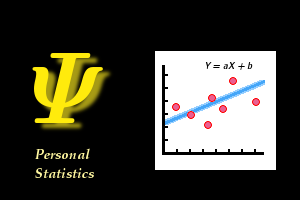
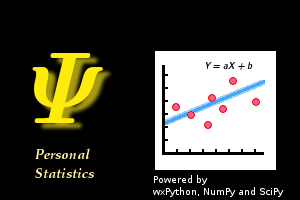
Added Settings menu and dialog, still in "main" class.

Changed region(s): [[0.51, 0.87, 0.96, 0.99]]

diff --git a/main.py b/main.py
@@ -1,5 +1,6 @@
 #!/usr/bin/python
 # -*- coding: utf-8 -*-
+
 import wx
 from wx import xrc
 from wx import grid
@@ -15,9 +16,8 @@ class PSI(wx.App):
         self.props = Properties.XMLProperties()
         self.props.Open('properties.xml')
         self.res = xrc.XmlResource(u'mainGrid.xrc')
-        self.frame = self.res.LoadFrame(None, u'mainFrame')
-        self.AboutDialog = self.res.LoadDialog(self.frame, u'AboutDialog')
-        self.mainGrid = xrc.XRCCTRL(self.frame, u'mainGrid')
+        self.frame = self.res.LoadFrame(None, u'MainFrame')
+        self.mainGrid = xrc.XRCCTRL(self.frame, u'MainGrid')
         self.mainGrid.CreateGrid(1000, 26)
         self.mainGrid.EnableDragRowSize(False)
         self.mainGrid.EnableDragColSize(False)
@@ -27,11 +27,14 @@ class PSI(wx.App):
                         id = xrc.XRCID(u'Quit'))
         self.frame.Bind(wx.EVT_MENU, self.OpenFile,
                         id = xrc.XRCID(u'Open'))
-        self.frame.Bind(wx.EVT_MENU, self.DoLR,
+        self.frame.Bind(wx.EVT_MENU, self.StyleDialog,
+                                id = xrc.XRCID(u'DrawingStyle'))
+        self.frame.Bind(wx.EVT_MENU, self.LR,
                                 id = xrc.XRCID(u'LR'))
         self.frame.Bind(wx.EVT_MENU, self.Descriptive,
                                 id = xrc.XRCID(u'DescStats'))
-        self.frame.Bind(wx.EVT_MENU, lambda x: self.AboutDialog.Show(),
+        aboutDialog = self.res.LoadDialog(self.frame, u'AboutDialog')
+        self.frame.Bind(wx.EVT_MENU, lambda x: aboutDialog.ShowModal(),
                                 id = xrc.XRCID(u'About'))
         self.frame.SetDimensions(int(self.props.GetProperty(u'main-window',
                                                             u'x-position')),
@@ -52,6 +55,58 @@ class PSI(wx.App):
         print 'Printing selected cells:'
         for i in self.mainGrid.GetSelectedCellsList('N'):
             print i
+
+    def StyleDialog(self, e):
+        styleDialog = self.res.LoadDialog(self.frame, u'StyleDialog')
+        radius = self.props.GetProperty('style', 'dots-radius')
+        xrc.XRCCTRL(styleDialog, u'DotsRadius').SetValue(int(radius))
+        self.dots_r = self.props.GetProperty('style', 'dots-color-r')
+        self.dots_g = self.props.GetProperty('style', 'dots-color-g')
+        self.dots_b = self.props.GetProperty('style', 'dots-color-b')
+        color = wx.Color(int(self.dots_r), int(self.dots_g), int(self.dots_b))
+        DotsColorButton = xrc.XRCCTRL(styleDialog, u'DotsColor')
+        DotsColorButton.SetForegroundColour(color)
+        styleDialog.Bind(wx.EVT_BUTTON, self.SetColors,
+            id = xrc.XRCID(u'DotsColor'))
+        width = self.props.GetProperty('style', 'line-width')
+        xrc.XRCCTRL(styleDialog, u'LineWidth').SetValue(int(width))
+        self.line_r = self.props.GetProperty('style', 'line-color-r')
+        self.line_g = self.props.GetProperty('style', 'line-color-g')
+        self.line_b = self.props.GetProperty('style', 'line-color-b')
+        color = wx.Color(int(self.line_r), int(self.line_g), int(self.line_b))
+        LineColorButton = xrc.XRCCTRL(styleDialog, u'LineColor')
+        LineColorButton.SetForegroundColour(color)
+        styleDialog.Bind(wx.EVT_BUTTON, self.SetColors,
+            id = xrc.XRCID(u'LineColor'))
+        if styleDialog.ShowModal() == wx.ID_OK:
+            self.props.SetProperty('style', 'dots-color-r', self.dots_r)
+            self.props.SetProperty('style', 'dots-color-g', self.dots_g)
+            self.props.SetProperty('style', 'dots-color-b', self.dots_b)
+            radius = xrc.XRCCTRL(styleDialog, u'DotsRadius').GetValue()
+            self.props.SetProperty('style', 'dots-radius', radius)
+            self.props.SetProperty('style', 'line-color-r', self.line_r)
+            self.props.SetProperty('style', 'line-color-g', self.line_g)
+            self.props.SetProperty('style', 'line-color-b', self.line_b)
+            width = xrc.XRCCTRL(styleDialog, u'LineWidth').GetValue()
+            self.props.SetProperty('style', 'line-width', width)
+
+    def SetColors(self, e):
+        colorDialog = wx.ColourDialog(None)
+        styleDialog = self.res.LoadDialog(self.frame, u'StyleDialog')
+        if colorDialog.ShowModal() == wx.ID_OK:
+            color = colorDialog.GetColourData().GetColour()
+            button = wx.Button(None)
+            if e.GetId() == xrc.XRCID(u'DotsColor'):
+                self.dots_r = color.Red()
+                self.dots_g = color.Green()
+                self.dots_b = color.Blue()
+                button = xrc.XRCCTRL(e.GetEventObject(), u'DotsColor')
+            elif e.GetId() == xrc.XRCID(u'LineColor'):
+                self.line_r = color.Red()
+                self.line_g = color.Green()
+                self.line_b = color.Blue()
+                button = xrc.XRCCTRL(e.GetEventObject(), u'LineColor')
+            button.SetForegroundColour(color)
 
     def Close(self, e):
         print 'Closing application...'
@@ -85,18 +140,14 @@ class PSI(wx.App):
                                       separator = sv.GetStringSelection())
                 sv.Destroy()
 
-    def DoLR(self, e):
+    def LR(self, e):
         analyst = Analysis.LinearRegression()
         if analyst.LoadData(self.mainGrid.GetSelectedCellsList('N')):
             self.ResultText.Clear()
             if analyst.Calculate():
                 analyst.PrintResult(self.ResultText)
                 self.ResultGraph.DrawGrid()
-                style = {}
-                style['dots_color'] = wx.Color(128, 128, 0)
-                style['dots_radius'] = 3
-                style['line_color'] = wx.Color(128, 0, 128)
-                style['line_width'] = 2
+                style = Graphics.Style(self.props)
                 analyst.DoDrawing(self.ResultGraph, style)
                 self.results.Show()
 
@@ -106,7 +157,6 @@ class PSI(wx.App):
             self.ResultText.Clear()
             if analyst.Calculate():
                 analyst.PrintResult(self.ResultText)
-                                    
 
 if __name__ == '__main__':
     app = PSI(False)

diff --git a/Graphics.py b/Graphics.py
@@ -86,3 +86,27 @@ class ResultGraph(wx.ScrolledWindow):
                     (height - 2*self.margin[1])/(maxY - minY)))
             self.DrawPoint(x, y, color, radius)
         self.DrawPoint(x, y, color, radius)
+
+
+class Style:
+
+    def __init__(self, properties):
+        self.style = {}
+        r = int(properties.GetProperty('style', 'dots-color-r'))
+        g = int(properties.GetProperty('style', 'dots-color-g'))
+        b = int(properties.GetProperty('style', 'dots-color-b'))
+        self.style['dots-color'] = wx.Color(r, g, b)
+        radius = int(properties.GetProperty('style', 'dots-radius'))
+        self.style['dots-radius'] = radius
+        r = int(properties.GetProperty('style', 'line-color-r'))
+        g = int(properties.GetProperty('style', 'line-color-g'))
+        b = int(properties.GetProperty('style', 'line-color-b'))
+        self.style['line-color'] = wx.Color(r, g, b)
+        width = int(properties.GetProperty('style', 'line-width'))
+        self.style['line-width'] = width
+
+    def __getitem__(self, name):
+        return self.style[name]
+
+    def GetStyle(self):
+        return self.style

diff --git a/Analysis.py b/Analysis.py
@@ -33,7 +33,7 @@ class BasicStatistics:
         return True
 
     def PrintResult(self, text):
-        text.AppendText(u'Data range: {0} --'.format(self.Res['min']))
+        text.AppendText(u'Data range: {0} -- '.format(self.Res['min']))
         text.AppendText(u"{0}\n".format(self.Res['max']))
         text.AppendText(u"Mean: {0}\n".format(self.Res['mean']))
         text.AppendText(u"Median: {0}\n".format(self.Res['median']))
@@ -86,9 +86,9 @@ class LinearRegression:
                 (width - 2*canvas.margin[0])/(maxX - minX)),
             int(height - ((float(Y1) - minY)*
                 (height - 2*canvas.margin[1])/(maxY - minY))),
-            color = style['dots_color'], width = style['line_width'])
-        canvas.PlotXYData(self.Data, color = style['line_color'],
-            radius = style['dots_radius'])
+            color = style['line-color'], width = style['line-width'])
+        canvas.PlotXYData(self.Data, color = style['dots-color'],
+            radius = style['dots-radius'])
 
     def PrintResult(self, text):
         summary = "Y = {0:.2}*X + {1:.2}\n".format(self.Res['slope'],
